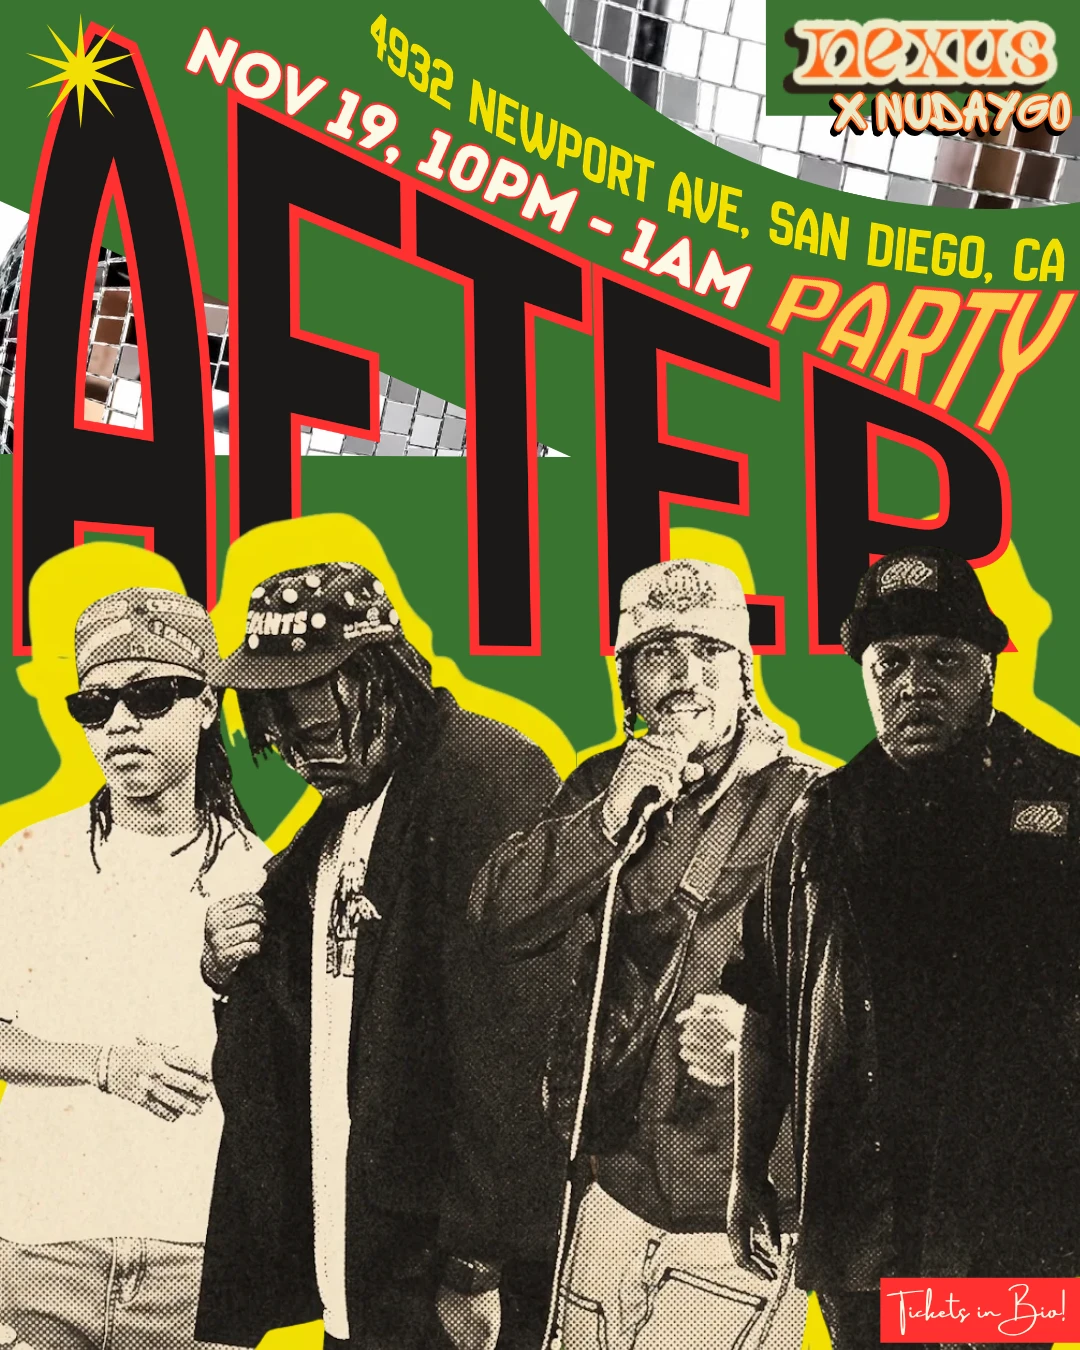
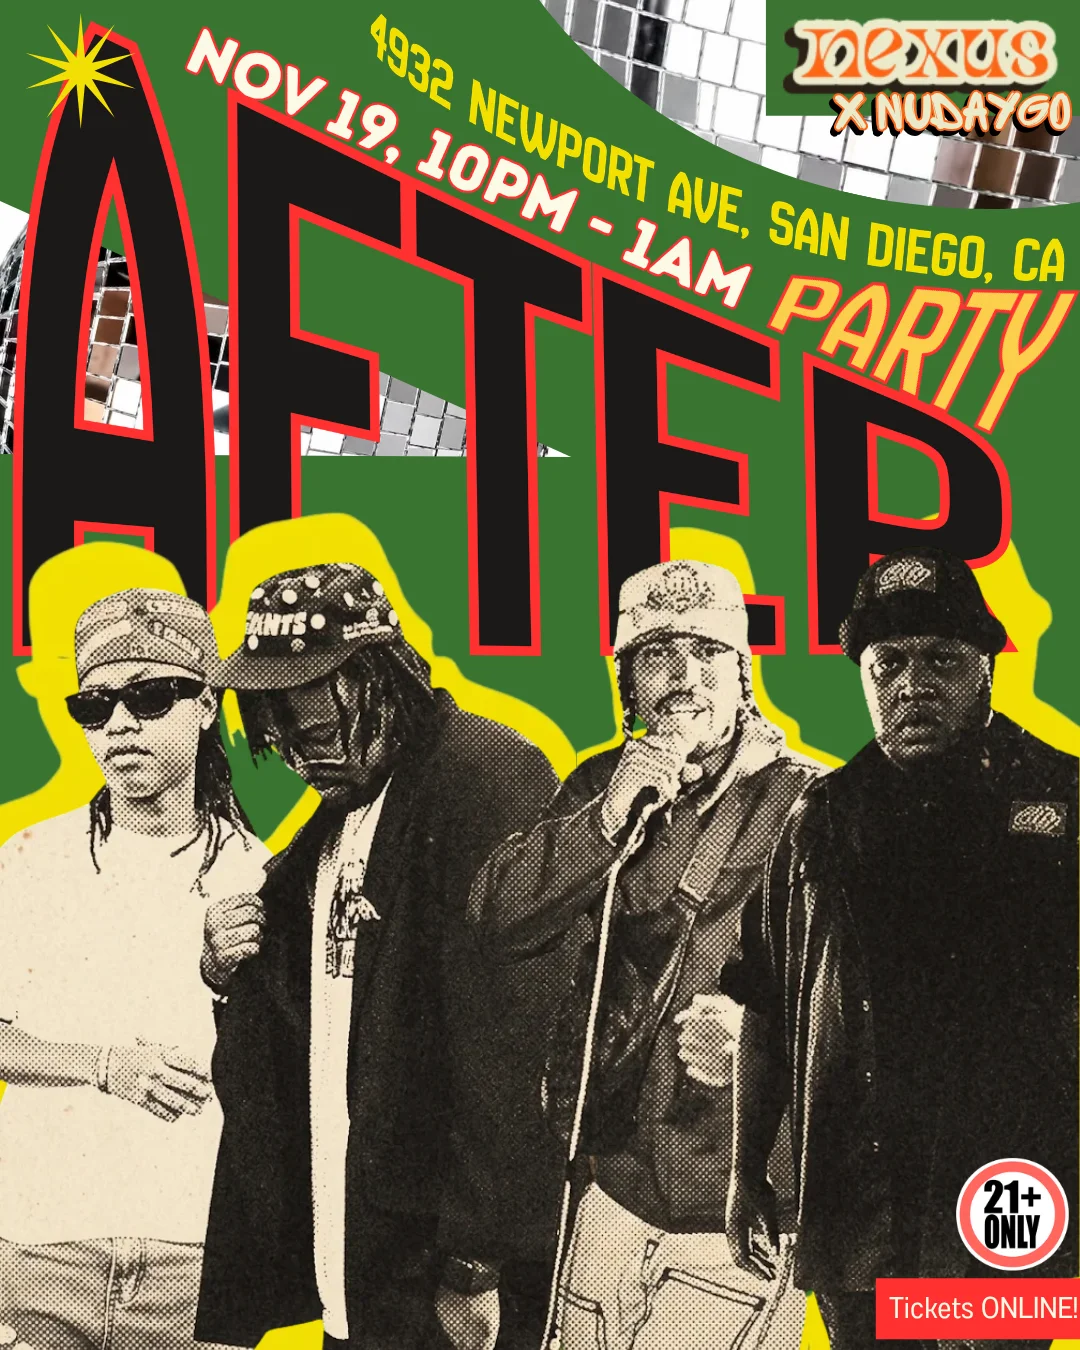
Update after party flyers and set times
Claude-Session: https://claude.ai/code/session_01EqMmcSfgt7Tgo6Kg6ahk3b

diff --git a/index.html b/index.html
@@ -2015,9 +2015,9 @@ body{
     .bb-when small{display:block;font-family:'Space Mono',monospace;font-weight:400;font-size:.62rem;letter-spacing:.12em;color:var(--bb-ink);margin-top:.35rem;text-transform:none;}
     .bb-flyer{position:relative;justify-self:center;width:min(100%,430px);transform:rotate(2.5deg);}
     .bb-flyer img{display:block;width:100%;height:auto;border:6px solid #fff;box-shadow:10px 12px 0 var(--bb-ink);}
-    /* Covers the flyer's own "Tickets in Bio!" box exactly: 199x64 at (881,1278) on the 1080x1350 image, inside a 6px frame */
+    /* New flyers print "Tickets ONLINE!" themselves, so no overlay is needed */
     .bb-flyer{container-type:inline-size;}
-    .bb-flyer::after{content:'Tickets Online';position:absolute;box-sizing:border-box;left:calc(6px + (100% - 12px) * .8157);top:calc(6px + (100% - 12px) * .9467);width:calc((100% - 12px) * .1843);height:calc((100% - 12px) * .0474);display:flex;align-items:center;justify-content:center;background:var(--bb-red);color:#fff;font-family:'Archivo',sans-serif;font-weight:900;text-transform:uppercase;font-size:2.6cqw;letter-spacing:.02em;white-space:nowrap;}
+    .bb-flyer::after{content:none;}
 
     .bb-wrap{max-width:1180px;margin:0 auto;padding:0 2rem 5rem;}
     .bb-tix{display:grid;grid-template-columns:1fr 1.25fr;gap:2rem;align-items:stretch;margin-top:1rem;}
@@ -2127,10 +2127,10 @@ body{
           <h2 class="bb-title"><span>After</span><span class="bb-amp">Party</span></h2>
           <div class="bb-sub">Bass <span>&amp;</span> Bars</div>
           <div class="bb-when">Thursday, Nov 19 · 10 PM – 1 AM<small>Uppercuts · 4932 Newport Ave, Ocean Beach, San Diego</small></div>
-          <div class="bb-mini"><b>10:00</b> Deleon Nox &nbsp;·&nbsp; <b>10:30</b> Nur &nbsp;·&nbsp; <b>11:00</b> 30 Foez &nbsp;·&nbsp; <b>11:30</b> ThaSpeakerBoxx</div>
+          <div class="bb-mini"><b>10:30</b> Deleon Nox &nbsp;·&nbsp; <b>11:00</b> Nur &nbsp;·&nbsp; <b>11:30</b> 30 Foez &nbsp;·&nbsp; <b>12:00</b> ThaSpeakerBoxx</div>
         </div>
         <figure class="bb-flyer" style="margin:0;">
-          <img src="images/bass-and-bars/flyer-lineup.webp" width="1080" height="1350" alt="Bass and Bars After Party flyer: Deleon Nox, 30 Foez, Nur and ThaSpeakerBoxx. November 19, 10 PM to 1 AM, 4932 Newport Ave, San Diego." loading="lazy">
+          <img src="images/bass-and-bars/flyer-lineup.webp?v=2" width="1080" height="1350" alt="Bass and Bars After Party flyer: Deleon Nox, Nur, 30 Foez and ThaSpeakerBoxx. November 19, 10 PM to 1 AM, 4932 Newport Ave, San Diego." loading="lazy">
         </figure>
       </section>
 
@@ -2165,10 +2165,10 @@ body{
         <h3 class="bb-h">The Lineup</h3>
         <p class="bb-lede">Four sets, one room. MCs and DJs from the San Diego scene take Uppercuts from 10 PM until close.</p>
         <div class="bb-lineup">
-          <div class="bb-act"><img src="images/bass-and-bars/deleon-nox.webp" alt="Deleon Nox" loading="lazy"><div><b>Deleon Nox</b><span>Set at 10:00 PM</span></div></div>
-          <div class="bb-act"><img src="images/bass-and-bars/nur.webp" alt="Nur" loading="lazy"><div><b>Nur</b><span>Set at 10:30 PM</span></div></div>
-          <div class="bb-act"><img src="images/bass-and-bars/30-foez.webp" alt="30 Foez" loading="lazy"><div><b>30 Foez</b><span>Set at 11:00 PM</span></div></div>
-          <div class="bb-act"><img src="images/bass-and-bars/thaspeakerboxx.webp" alt="ThaSpeakerBoxx" loading="lazy"><div><b>ThaSpeakerBoxx</b><span>Set at 11:30 PM</span></div></div>
+          <div class="bb-act"><img src="images/bass-and-bars/deleon-nox.webp?v=2" alt="Deleon Nox" loading="lazy"><div><b>Deleon Nox</b><span>Set at 10:30 PM</span></div></div>
+          <div class="bb-act"><img src="images/bass-and-bars/nur.webp?v=2" alt="Nur" loading="lazy"><div><b>Nur</b><span>Set at 11:00 PM</span></div></div>
+          <div class="bb-act"><img src="images/bass-and-bars/30-foez.webp?v=2" alt="30 Foez" loading="lazy"><div><b>30 Foez</b><span>Set at 11:30 PM</span></div></div>
+          <div class="bb-act"><img src="images/bass-and-bars/thaspeakerboxx.webp?v=2" alt="ThaSpeakerBoxx" loading="lazy"><div><b>ThaSpeakerBoxx</b><span>Set at 12:00 AM</span></div></div>
         </div>
 
         <h3 class="bb-h">The Night</h3>
